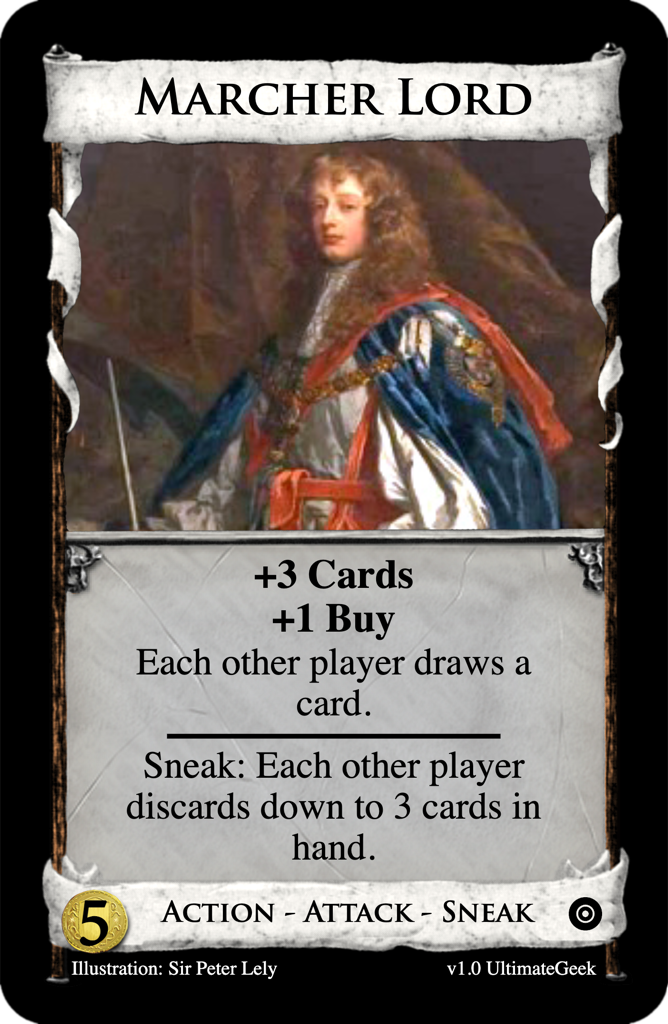
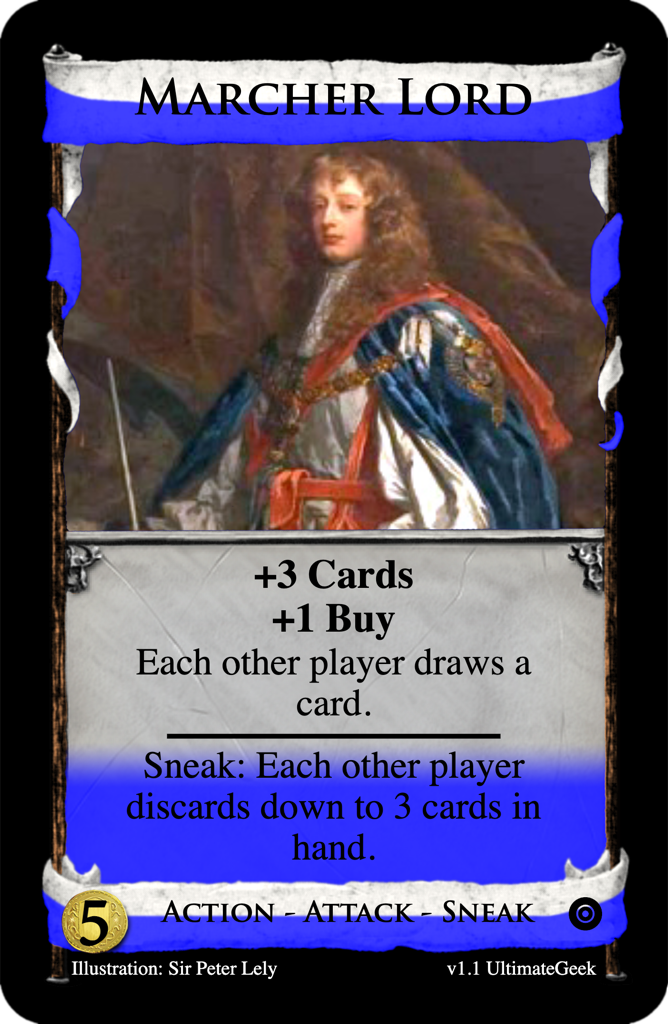
Color Marcher Lord half blue

diff --git a/fan-mechanics/marcher-lord/README.md b/fan-mechanics/marcher-lord/README.md
@@ -12,7 +12,7 @@ by Commodore Chuckles, 2022 April 20
 >
 > Also, I'd like some feedback on how well you think this mechanic works overall. My main concern is boards with more than one Sneak card on them. It seems possible that, because of the once per turn restriction, one of the Sneak cards would end up with only its plain ability being used. I thought about making the restriction instead "once per turn per pile", but that seems too complicated. Does anyone have any other ideas?
 
-## Submission: [$5 Action - Attack - Sneak: Marcher Lord](https://shardofhonor.github.io/dominion-card-generator/?title=Marcher%20Lord&description=%2B3%20Cards%0A%2B1%20Action%0AEach%20other%20player%20draws%20a%20card.%0A-%0ASneak%3A%20Each%20other%20player%20discards%20down%20to%203%20cards%20in%20hand.&type=Action%20-%20Attack%20-%20Sneak&credit=Illustration%3A%20Sir%20Peter%20Lely&creator=v1.0%20UltimateGeek&price=%245&preview=&type2=&color2split=1&boldkeys=&picture-x=-0.79&picture-y=0.74&picture-zoom=1.2&picture=https%3A%2F%2Fupload.wikimedia.org%2Fwikipedia%2Fcommons%2F2%2F28%2FPeter_Lely_Charles_Stewart_3rd_Duke_of_Richmond.jpg&expansion=https%3A%2F%2Fcdn4.iconfinder.com%2Fdata%2Ficons%2Fionicons%2F512%2Ficon-disc-512.png&custom-icon=&color0=0&color1=0&size=0)
+## Submission: [$5 Action - Attack - Sneak: Marcher Lord](https://shardofhonor.github.io/dominion-card-generator/?title=Marcher%20Lord&description=%2B3%20Cards%0A%2B1%20Buy%0AEach%20other%20player%20draws%20a%20card.%0A-%0ASneak%3A%20Each%20other%20player%20discards%20down%20to%203%20cards%20in%20hand.&type=Action%20-%20Attack%20-%20Sneak&credit=Illustration%3A%20Sir%20Peter%20Lely&creator=v1.1%20UltimateGeek&price=%245&preview=&type2=&color2split=19&boldkeys=&picture-x=-0.79&picture-y=0.74&picture-zoom=1.2&picture=https%3A%2F%2Fupload.wikimedia.org%2Fwikipedia%2Fcommons%2F2%2F28%2FPeter_Lely_Charles_Stewart_3rd_Duke_of_Richmond.jpg&expansion=https%3A%2F%2Fcdn4.iconfinder.com%2Fdata%2Ficons%2Fionicons%2F512%2Ficon-disc-512.png&custom-icon=&c0.0=0.25&c0.1=0.25&c0.2=10&color1=1&size=0)
 
 > +3 Cards <br>
 > +1 Buy <br>
